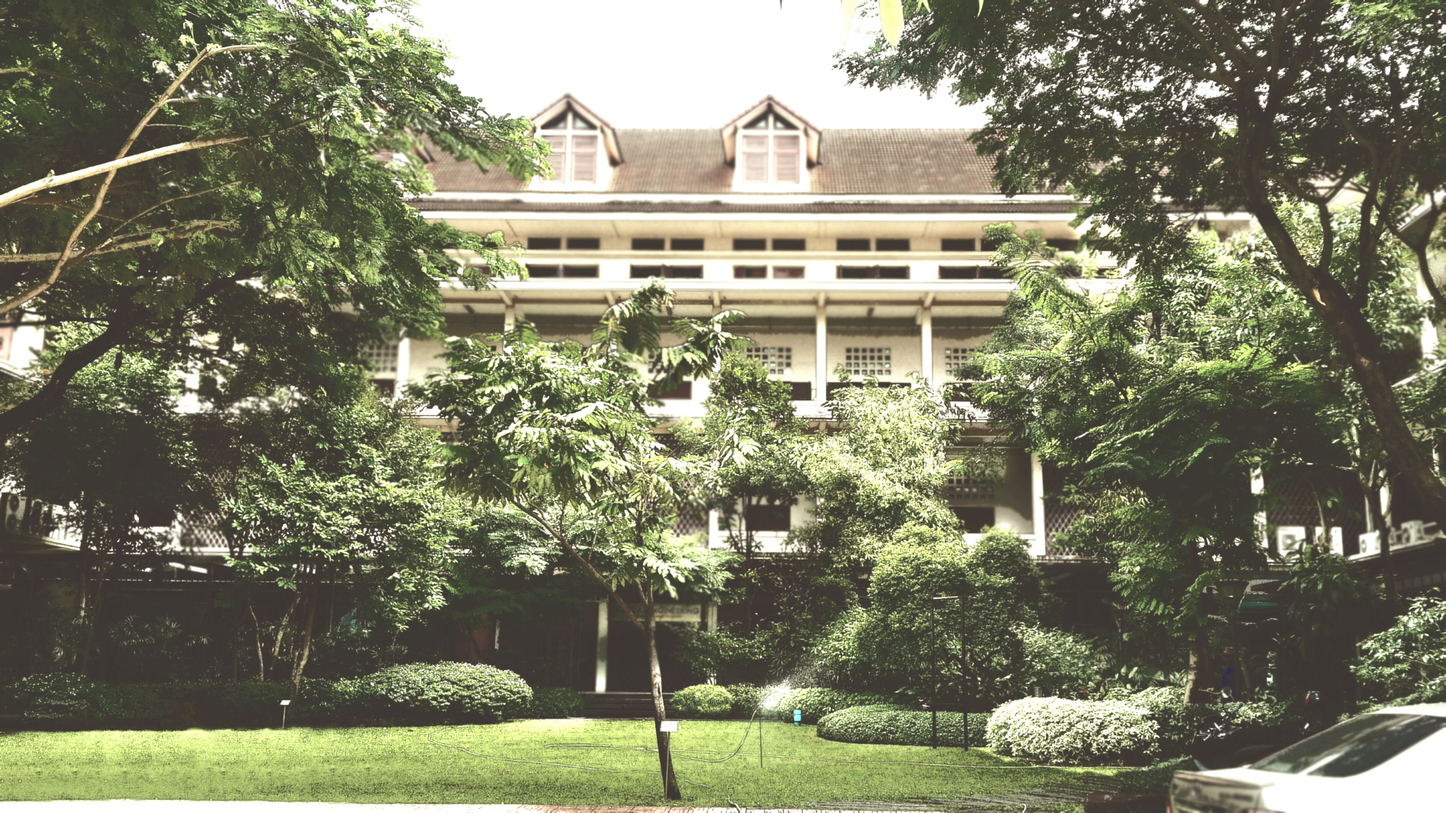
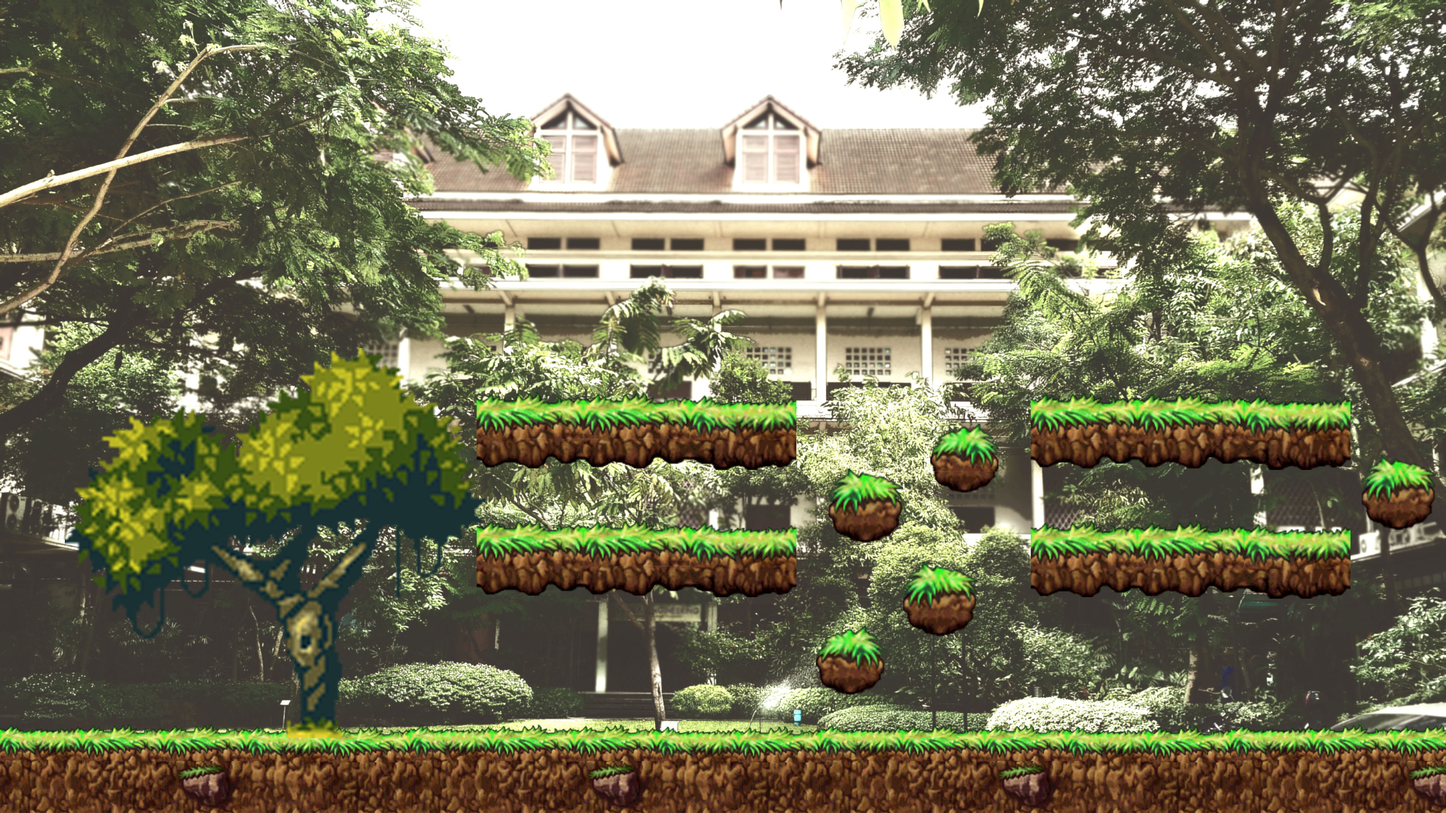
Update Garden Map

diff --git a/src/model/map/Map.java b/src/model/map/Map.java
@@ -19,16 +19,16 @@ import particle.Particle;
 public abstract class Map extends Rectangle {
 
 	private Image img;
-	private Image backgroundImg = new Image("background.png");	
+	private Image backgroundImg = new Image("file:default-background.jpg");
 	private double movementSpeed = 3.9;
-	
+
 	protected double gravity = 0.55;
 	protected double groundFriction = 0.4;
 	protected double airFriction = 0.1;
 	protected double maxVelocityX = 4;
 	protected double maxVelocityY = 6;
 	protected boolean allowMultipleJumps = false;
-	
+
 	private List<Class<? extends Monster>> monsterTypes = new ArrayList<>();
 	private List<Portal> portals = new ArrayList<>();
 	private List<Entity> entities = new ArrayList<>();
@@ -36,14 +36,20 @@ public abstract class Map extends Rectangle {
 	private MapStructure structure;
 
 	@SafeVarargs
-	public Map(Image img, Image bgImg, Class<? extends Monster>...monsterTypes) {
+	public Map(Image img, Class<? extends Monster>... monsterTypes) {
 		super(0, 0, img.getWidth(), img.getHeight());
 		this.img = img;
-		this.backgroundImg = bgImg;
 		structure = new MapStructure(this);
-		for (Class<? extends Monster> i: monsterTypes) this.monsterTypes.add(i);
+		for (Class<? extends Monster> i : monsterTypes)
+			this.monsterTypes.add(i);
 	}
-	
+
+	@SafeVarargs
+	public Map(Image img, Image bgImg, Class<? extends Monster>... monsterTypes) {
+		this(img,monsterTypes);
+		this.backgroundImg = bgImg;
+	}
+
 	public void motion(Entity e) {
 		moveEntity(e);
 		pullGravity(e);
@@ -56,98 +62,128 @@ public abstract class Map extends Rectangle {
 			}
 		}
 	}
-	
+
 	public void motionAll() {
-		for (Entity i: entities) {
+		for (Entity i : entities) {
 			motion(i);
 		}
 	}
-	
+
 	private void moveMap() {
 		// Move map by object inside
 		Player player = GameManager.getInstance().getPlayer();
-		if (player.getX() > Constants.MAP_WIDTH + x - player.getWidth() - 200) x += movementSpeed;
-		else if (player.getX() < x + 200) x -= movementSpeed;
-		if (player.getY() > Constants.MAP_HEIGHT + y - player.getHeight() - 150) y += movementSpeed;
-		else if (player.getY() < y + 150) y -= movementSpeed;
-		
+		if (player.getX() > Constants.MAP_WIDTH + x - player.getWidth() - 200)
+			x += movementSpeed;
+		else if (player.getX() < x + 200)
+			x -= movementSpeed;
+		if (player.getY() > Constants.MAP_HEIGHT + y - player.getHeight() - 150)
+			y += movementSpeed;
+		else if (player.getY() < y + 150)
+			y -= movementSpeed;
+
 		// Map boundary
-		if (x < 0) x = 0;
-		else if (x > width - Constants.MAP_WIDTH) x = width - Constants.MAP_WIDTH;
-		if (y < 0) y = 0;
-		else if (y > height - Constants.MAP_HEIGHT) y = height - Constants.MAP_HEIGHT;
+		if (x < 0)
+			x = 0;
+		else if (x > width - Constants.MAP_WIDTH)
+			x = width - Constants.MAP_WIDTH;
+		if (y < 0)
+			y = 0;
+		else if (y > height - Constants.MAP_HEIGHT)
+			y = height - Constants.MAP_HEIGHT;
 	}
-	
+
 	private void moveEntity(Entity e) {
 		e.move();
-		if (e.getX() < 0) e.setX(0);
-		else if (e.getX() + e.getWidth() > width) e.setX(width - e.getWidth());
-		if (e.getY() < 0) e.setY(9);
-		else if (e.getY() + e.getHeight() > height) e.setY(height - e.getHeight());
+		if (e.getX() < 0)
+			e.setX(0);
+		else if (e.getX() + e.getWidth() > width)
+			e.setX(width - e.getWidth());
+		if (e.getY() < 0)
+			e.setY(9);
+		else if (e.getY() + e.getHeight() > height)
+			e.setY(height - e.getHeight());
 	}
-	
+
 	public void pushAccX(Entity e, double accX) {
 		double friction = getFriction(e);
-		if (accX > 0) accX += friction;
-		else if (accX < 0) accX -= friction;
-		
-		if (e.getVelocityX() + accX > maxVelocityX) e.setVelocityX(maxVelocityX);
-		else if (e.getVelocityX() + accX < -maxVelocityX) e.setVelocityX(-maxVelocityX);
-		else e.pushAccX(accX);
+		if (accX > 0)
+			accX += friction;
+		else if (accX < 0)
+			accX -= friction;
+
+		if (e.getVelocityX() + accX > maxVelocityX)
+			e.setVelocityX(maxVelocityX);
+		else if (e.getVelocityX() + accX < -maxVelocityX)
+			e.setVelocityX(-maxVelocityX);
+		else
+			e.pushAccX(accX);
 	}
-	
+
 	private void pullGravity(Entity e) {
-		if (isOnFloor(e)) return;
-		if (e.getVelocityY() + gravity > maxVelocityY) e.setVelocityY(maxVelocityY);
-		else e.pushAccY(gravity);
+		if (isOnFloor(e))
+			return;
+		if (e.getVelocityY() + gravity > maxVelocityY)
+			e.setVelocityY(maxVelocityY);
+		else
+			e.pushAccY(gravity);
 	}
-	
+
 	private void decelerate(Entity e) {
 		double friction = isOnFloor(e) ? groundFriction : airFriction;
-		if (e.getVelocityX() > friction) e.pushAccX(-friction);
-		else if (e.getVelocityX() < -friction) e.pushAccX(friction);
-		else e.setVelocityX(0);
+		if (e.getVelocityX() > friction)
+			e.pushAccX(-friction);
+		else if (e.getVelocityX() < -friction)
+			e.pushAccX(friction);
+		else
+			e.setVelocityX(0);
 	}
-	
+
 	public boolean isOnFloor(Entity e) {
-		if (e.getY() + e.getHeight() >= height) return true;
-		if (structure.collideWith(e) != null) return true;
+		if (e.getY() + e.getHeight() >= height)
+			return true;
+		if (structure.collideWith(e) != null)
+			return true;
 		return false;
 	}
-	
+
 	public Entity collideEntity(Rectangle r) {
-		for (Entity i: entities) {
-			if (r.collideWith(i)) return i;
+		for (Entity i : entities) {
+			if (r.collideWith(i))
+				return i;
 		}
 		return null;
 	}
-	
+
 	public DamageableEntity collideDamageableEntity(Rectangle r) {
-		for (Entity i: entities) {
+		for (Entity i : entities) {
 			if (i instanceof DamageableEntity && r.collideWith(i)) {
 				return (DamageableEntity) i;
 			}
 		}
 		return null;
 	}
-	
+
 	public Portal collidePortal(Rectangle r) {
-		for (Portal i: portals) {
-			if (i.collideWith(r)) return i;
+		for (Portal i : portals) {
+			if (i.collideWith(r))
+				return i;
 		}
 		return null;
 	}
-	
+
 	public void render(GraphicsContext gc) {
 		gc.drawImage(backgroundImg, 0, 0);
 		gc.drawImage(img, -x, -y);
 		structure.render(gc);
-		for (Entity i: entities) i.render(gc);
+		for (Entity i : entities)
+			i.render(gc);
 		GameManager.getInstance().getPlayer().render(gc);
-		for (Portal i: portals) i.render(gc);
-		for (Particle i: particles) i.render(gc);
+		for (Portal i : portals)
+			i.render(gc);
+		for (Particle i : particles)
+			i.render(gc);
 	}
-	
+
 	public void update() {
 		Iterator<Particle> it = particles.iterator();
 		while (it.hasNext()) {
@@ -156,26 +192,27 @@ public abstract class Map extends Rectangle {
 			}
 		}
 	}
-	
-	public void spawnRandom() throws InstantiationException, IllegalAccessException, IllegalArgumentException, InvocationTargetException, NoSuchMethodException, SecurityException {
+
+	public void spawnRandom() throws InstantiationException, IllegalAccessException, IllegalArgumentException,
+			InvocationTargetException, NoSuchMethodException, SecurityException {
 		int rand = (int) Math.floor(Math.random() * monsterTypes.size());
 		double randX = Math.random() * 200 + 100;
 		Monster m = monsterTypes.get(rand).getConstructor(double.class, double.class).newInstance(randX, 550);
 		entities.add(m);
 	}
-	
+
 	public double getFriction(Entity e) {
 		return isOnFloor(e) ? groundFriction : airFriction;
 	}
-	
+
 	public List<Class<? extends Monster>> getMonsterTypes() {
 		return monsterTypes;
 	}
-	
+
 	public MapStructure getStructure() {
 		return structure;
 	}
-	
+
 	public List<Entity> getEntities() {
 		return entities;
 	}
@@ -187,11 +224,11 @@ public abstract class Map extends Rectangle {
 	public double getMaxVelocityY() {
 		return maxVelocityY;
 	}
-	
+
 	public List<Particle> getParticles() {
 		return particles;
 	}
-	
+
 	public List<Portal> getPortals() {
 		return portals;
 	}

diff --git a/src/model/map/Garden.java b/src/model/map/Garden.java
@@ -6,19 +6,28 @@ import model.monster.ProgMeth;
 public class Garden extends Map {
 	
 	public Garden() {
-		super(new Image("foreground.png"), new Image("garden-background.jpg",1000,600,false,false),
+		super(new Image("garden-background.jpg",1300,900,false,false),
 				ProgMeth.class);
-		getStructure().addAll(new StructureItem(0, 695, 1500, 5, false),
-				new StructureItem(640, 620, 50, 5),
-				new StructureItem(570, 550, 50, 5),
-				new StructureItem(500, 480, 50, 5),
-				new StructureItem(500, 405, 50, 5),
-				new StructureItem(500, 330, 50, 5),
-				new StructureItem(500, 255, 50, 5),
-				new StructureItem(500, 180, 50, 5),
-				new StructureItem(500, 105, 50, 5),
-				new StructureItem(720, 550, 50, 5),
-				new StructureItem(800, 480, 340, 5));
+		getStructure().addAll(new StructureItem(0, 815, 1500, 5, false),
+				new StructureItem(735, 720, 60, 5),
+				new StructureItem(815, 645, 65, 5),
+				new StructureItem(745, 540, 65, 5),
+				new StructureItem(835, 485, 65, 5),
+				new StructureItem(1226,524, 60, 5),
+				
+				new StructureItem(290, 430, 60, 5),
+				new StructureItem(240, 500, 80, 5),
+				new StructureItem(1160, 300, 30, 5),
+				new StructureItem(1175, 220, 30, 5),
+				
+				new StructureItem(480, 395, 60, 5),
+				new StructureItem(400, 310, 620, 6),
+				new StructureItem(370, 225, 610, 5),
+				
+				new StructureItem(925, 595, 290, 5),
+				new StructureItem(925, 450, 290, 5),
+				new StructureItem(430, 595, 290, 5),
+				new StructureItem(430, 450, 290, 5));
 		getEntities().add(new ProgMeth(100, 550));
 	}
 }

diff --git a/src/model/GameManager.java b/src/model/GameManager.java
@@ -61,8 +61,8 @@ public class GameManager {
 	}
 	
 	private void generateMap() {
-		maps.add(new TestMap());
 		maps.add(new Garden());
+		maps.add(new TestMap());
 		currentMap = maps.get(0);
 	}
 	
